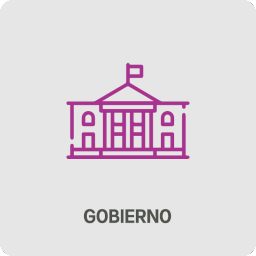
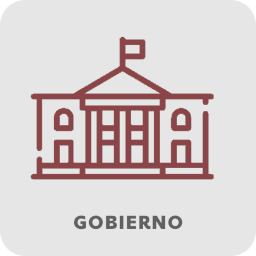
...

diff --git a/src/assets/themes/theme.scss b/src/assets/themes/theme.scss
@@ -1,0 +1,142 @@
+@use '@angular/material' as mat;
+@include mat.core();
+
+/*AQUI DEFINIMOS NUEVAS PALETAS DE COLORES*/
+
+$md-mcgpaletteteal: (
+    50 : #eceff1,
+    100 : #cfd8dc,
+    200 : #b0bec5,
+    300 : #90a4ae,
+    400 : #78919c,
+    500 : #607d8b,
+    600 : #587583,
+    700 : #4e6a78,
+    800 : #44606e,
+    900 : #334d5b,
+    A100 : #abe1ff,
+    A200 : #78ceff,
+    A400 : #45bcff,
+    A700 : #2bb3ff,
+    contrast: (
+        50 : #000000,
+        100 : #000000,
+        200 : #000000,
+        300 : #000000,
+        400 : #000000,
+        500 : #ffffff,
+        600 : #ffffff,
+        700 : #ffffff,
+        800 : #ffffff,
+        900 : #ffffff,
+        A100 : #000000,
+        A200 : #000000,
+        A400 : #000000,
+        A700 : #000000,
+    )
+);
+
+$md-mcgpalettegray: (
+  50: #f9f9fa,
+  100: #f3f3f4,
+  200: #ebebec,
+  300: #dcdcdd,
+  400: #b9b9ba,
+  500: #99999a,
+  600: #707071,
+  700: #5d5d5e,
+  800: #3e3e3f,
+  900: #1d1d1e,
+  A100: #f5f5f5,
+  A200: #eaeaeb,
+  A400: #d6d6d7,
+  A700: #838386,
+  contrast: (
+    50: rgba(black, 0.87),
+    100: rgba(black, 0.87),
+    200: rgba(black, 0.87),
+    300: rgba(black, 0.87),
+    400: rgba(black, 0.87),
+    500: white,
+    600: white,
+    700: white,
+    800: white,
+    900: white,
+    A100: rgba(black, 0.87),
+    A200: rgba(black, 0.87),
+    A400: rgba(black, 0.87),
+    A700: white,
+  )
+);
+
+$md-mcgpalettegreen: (
+    50 : #E8F5E9,
+    100 : #C8E6C9,
+    200 : #A5D6A7,
+    300 : #81C784,
+    400 : #66BB6A,
+    500 : #4CAF50,
+    600 : #43A047,
+    700 : #388E3C,
+    800 : #2E7D32,
+    900 : #1B5E20,
+    A100 : #B9F6CA,
+    A200 : #69F0AE,
+    A400 : #00E676,
+    A700 : #00C853,
+    contrast: (
+        50 : #000000,
+        100 : #000000,
+        200 : #000000,
+        300 : #000000,
+        400 : #000000,
+        500 : #ffffff,
+        600 : #ffffff,
+        700 : #ffffff,
+        800 : #ffffff,
+        900 : #ffffff,
+        A100 : #000000,
+        A200 : #000000,
+        A400 : #000000,
+        A700 : #000000,
+    )
+);
+$crimson-palette: (
+  50: #ffebef,
+  100: #ffcdc5,
+  200: #f0999f,
+  300: #e77179,
+  400: #f24e58,
+  500: #f83a40,
+  600: #e9313e,
+  700: #d72638,
+  800: #ca1e30,
+  900: #bb0d24,
+  contrast: (
+    50: rgba(black, 0.87),
+    100: rgba(black, 0.87),
+    200: rgba(black, 0.87),
+    300: rgba(black, 0.87),
+    400: white,
+    500: white,
+    600: white,
+    700: white,
+    800: white,
+    900: white,
+  )
+);
+
+
+$personal-primary: mat.define-palette($md-mcgpaletteteal, 700, 300, 900);
+$personal-accent: mat.define-palette($md-mcgpaletteteal, 300, 100, 500);
+$personal-warn: mat.define-palette($crimson-palette, 700);
+$personal-theme: mat.define-light-theme((
+  color: (
+    primary: $personal-primary,
+    accent: $personal-accent,
+    warn: $personal-warn,
+  )
+));
+@include mat.all-component-themes($personal-theme);
+/*html, body { height: 100%; }
+body { margin: 0; font-family: Roboto, "Helvetica Neue", sans-serif; }*/

diff --git a/src/app/portal-hacienda/pages/smyt/sustitucion-placa-vehiculo/sustitucion-placa-vehiculo.component.ts b/src/app/portal-hacienda/pages/smyt/sustitucion-placa-vehiculo/sustitucion-placa-vehiculo.component.ts
@@ -140,6 +140,26 @@ export class SustitucionPlacaVehiculoComponent implements OnInit {
     return '';
   }
 
+  updateFiel(event: number): void {
+    console.log(event)
+    if(event === 9) {
+      let msg: string = '';
+      this.smytService.getMessages_vehicle()
+        .subscribe( message => {
+          this.messages_other = message;
+          if (this.sizeDisplay === 'Small' || this.sizeDisplay === 'XSmall') {
+            this.messages_other.forEach(mss=> {
+              msg += mss.message + "<br><br>";
+            });
+            this.openSnackBar(msg);
+          }
+        });
+      return;
+    }
+    if(this.messages_other.length > 0) this.messages_other = [];
+    return;
+  }
+
   onSubmit() {
     this.isLoading = true;
     this.buttBlock = true;

diff --git a/src/app/shared/components/tabla-calculo-conceptos/tabla-calculo-conceptos.component.ts b/src/app/shared/components/tabla-calculo-conceptos/tabla-calculo-conceptos.component.ts
@@ -534,8 +534,8 @@ export class TablaCalculoConceptosComponent implements OnInit, OnDestroy, AfterC
           }
 
           let arrLineaDetalle = contribuyente.data.lineaDetalle.split('|');
-          arrLineaDetalle.pop();
-          arrLineaDetalle[val] = resp.data.lineaDetalle;
+          if(arrLineaDetalle[arrLineaDetalle.length-1].length>1) arrLineaDetalle.pop();
+          arrLineaDetalle[val] = resp.data.lineaDetalle.replaceAll('|','');
 
           contribuyente.data.conceptos[val].importe = resp.data.conceptos[0].importe;
           contribuyente.data.conceptos[val].cantidad = resp.data.conceptos[0].cantidad;

diff --git a/src/app/portal-hacienda/pages/smyt/sustitucion-placa-vehiculo/sustitucion-placa-vehiculo.component.html b/src/app/portal-hacienda/pages/smyt/sustitucion-placa-vehiculo/sustitucion-placa-vehiculo.component.html
@@ -21,7 +21,7 @@
 
               <mat-form-field fxFlex style="margin-right:0.5em;" appearance="outline">
                 <mat-label>Tipo de vehículo</mat-label>
-                <mat-select formControlName="tipo_vehiculo">
+                <mat-select formControlName="tipo_vehiculo" (valueChange)="updateFiel($event)">
                   <mat-option value="">--- Seleccione Tipo de Vehículo ---</mat-option>
                   <mat-option *ngFor="let tipo of tipoVehiculoArr" [value]="tipo.id">{{tipo.descripcion}}</mat-option>
                 </mat-select>

diff --git a/src/app/portal-hacienda/pages/smyt/alta-vehiculo-nuevo-page/alta-vehiculo-nuevo-page.component.ts b/src/app/portal-hacienda/pages/smyt/alta-vehiculo-nuevo-page/alta-vehiculo-nuevo-page.component.ts
@@ -162,7 +162,7 @@ export class AltaVehiculoNuevoPageComponent implements OnInit, AfterViewInit {
   }
 
   updateFiel(event: number): void {
-    if(event === 7) {
+    if(event === 9) {
       let msg: string = '';
       this.smytService.getMessages_vehicle()
         .subscribe( message => {
@@ -174,6 +174,7 @@ export class AltaVehiculoNuevoPageComponent implements OnInit, AfterViewInit {
             this.openSnackBar(msg);
           }
         });
+      return;
     }
     if(this.messages_other.length > 0) this.messages_other = [];
     return;
